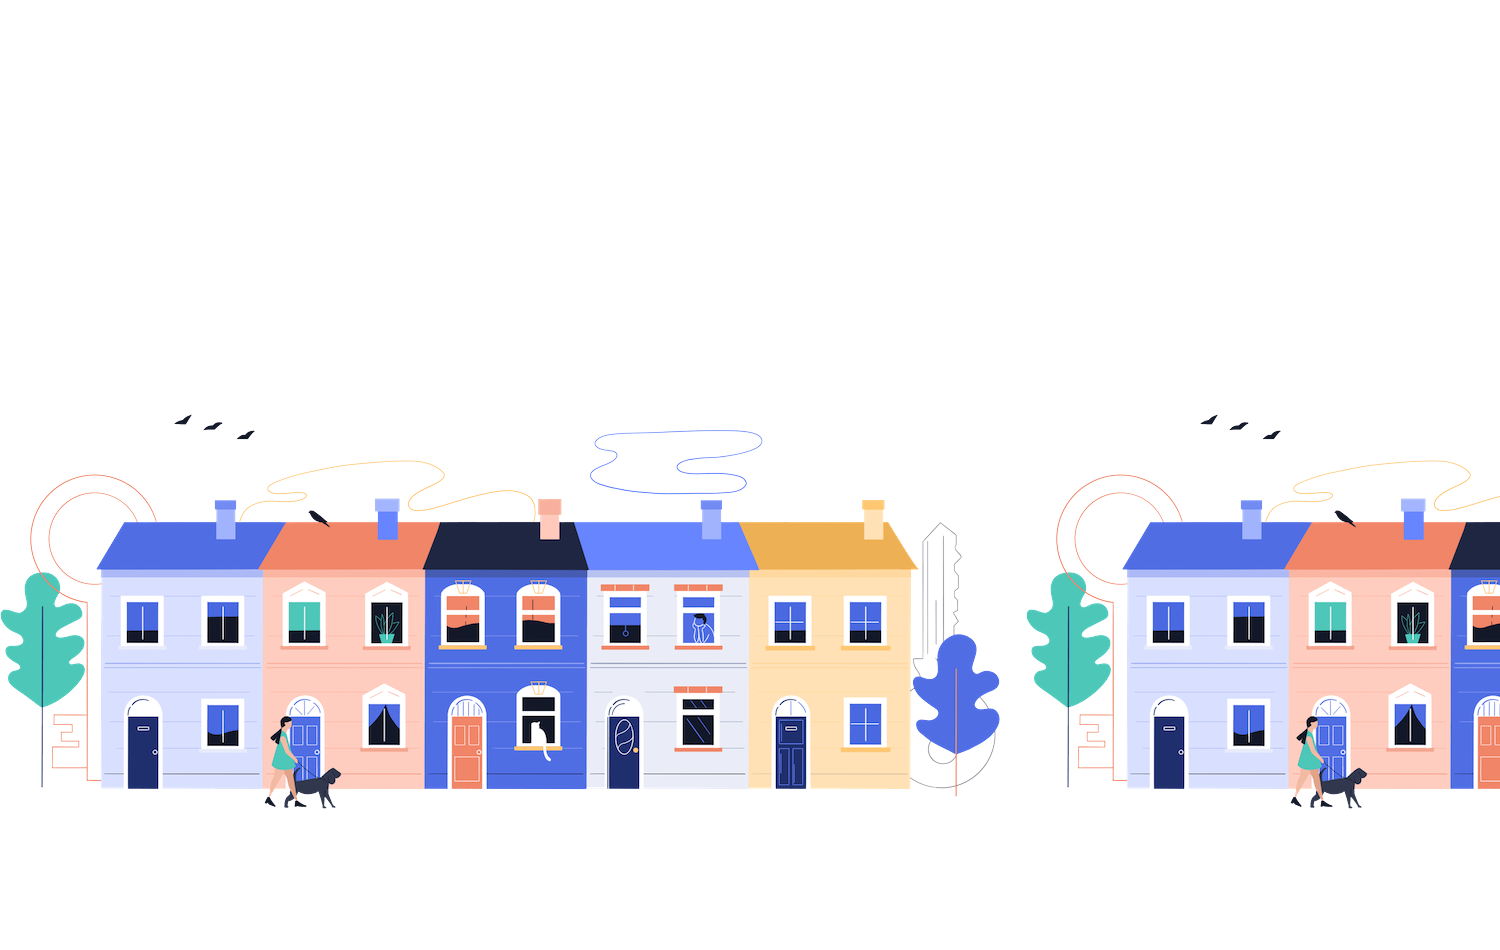
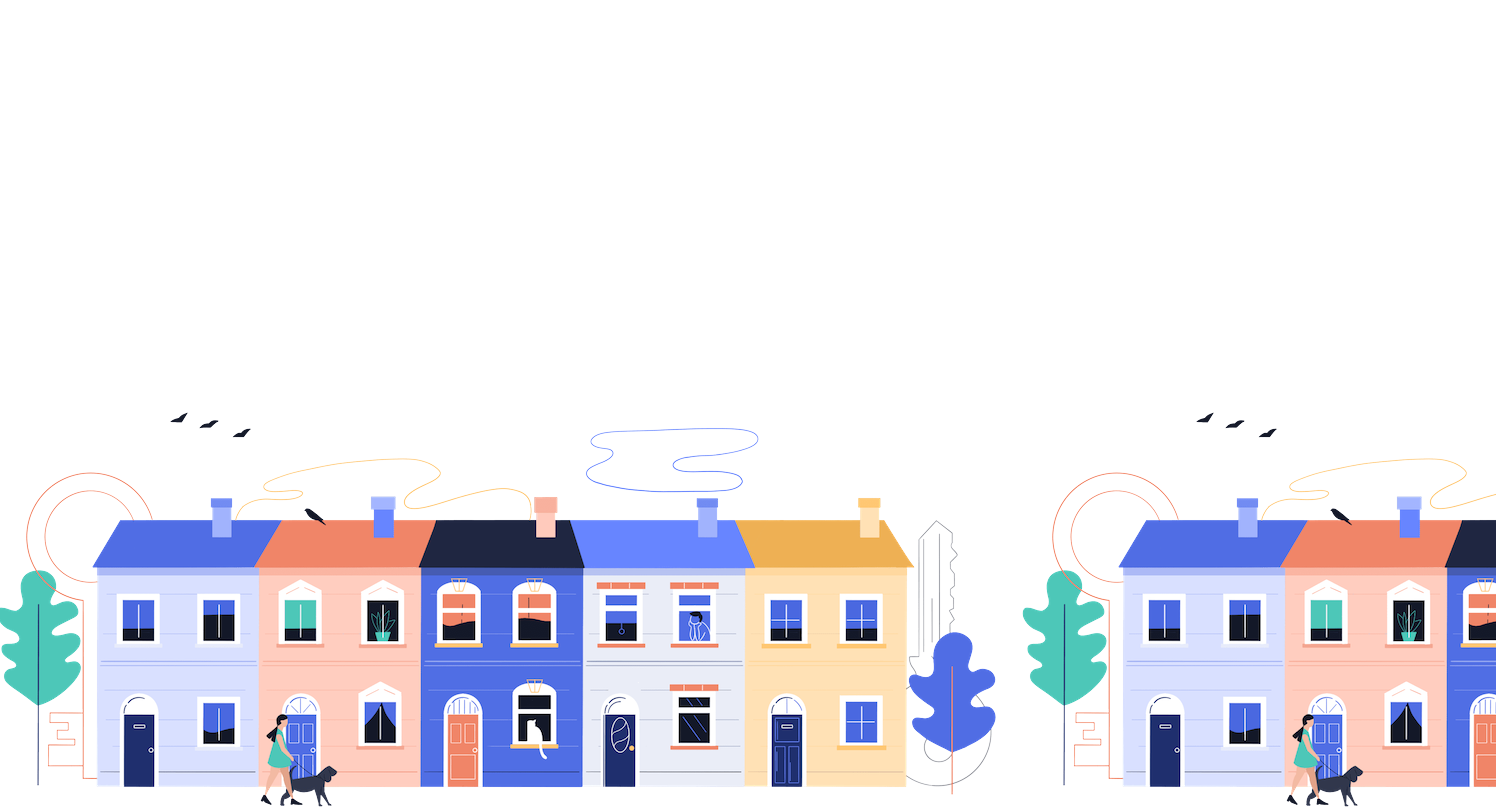
changed hero style

diff --git a/front-end/src/assets/css/general.css b/front-end/src/assets/css/general.css
@@ -277,15 +277,30 @@ body {
 .Hero {
   display: flex;
   flex-direction: column;
+  background: url("../images/wallpaper9.png");
+	height: 920px;
+	background-size: contain;
+	background-repeat: no-repeat;
+
+	background-position: center;
+
 }
 
 .HeroGroup {
-  padding-top: 150px;
-  text-align: center;
+  margin: 0 auto;
+	max-width: 500px;
+	padding: 150px 50px;
+	text-align: center;
 }
 
 .jumbo {
   width: 100%;
+  height: 920px;
+	background-size: contain;
+	background-repeat: no-repeat;
+
+	background-position: center;
+  
 }
 
 .Hero h1 {
@@ -340,8 +355,10 @@ body {
     padding-top: 100px;
   }
 
-  .Hero h1 {
+  .Hero .HeroGroup h1 {
     font-size: 40px;
+    padding-top: 50px;
+    
   }
 
   .Hero p {

diff --git a/front-end/src/components/LandingPage/IndexPage.js b/front-end/src/components/LandingPage/IndexPage.js
@@ -16,12 +16,7 @@ const IndexPage = () => (
         <button>GET A CUSTOMIZED DEMO</button>
       </Link>
     </div>
-    <img
-      alt="wall-paper"
-      className="jumbo"
-      src={require("../../assets/images/wallpaper.png")}
-    />
-    <Wave />
+
     <a href="#body" className="down-arrow">
       <img
         style={{ width: 50, height: 50 }}
